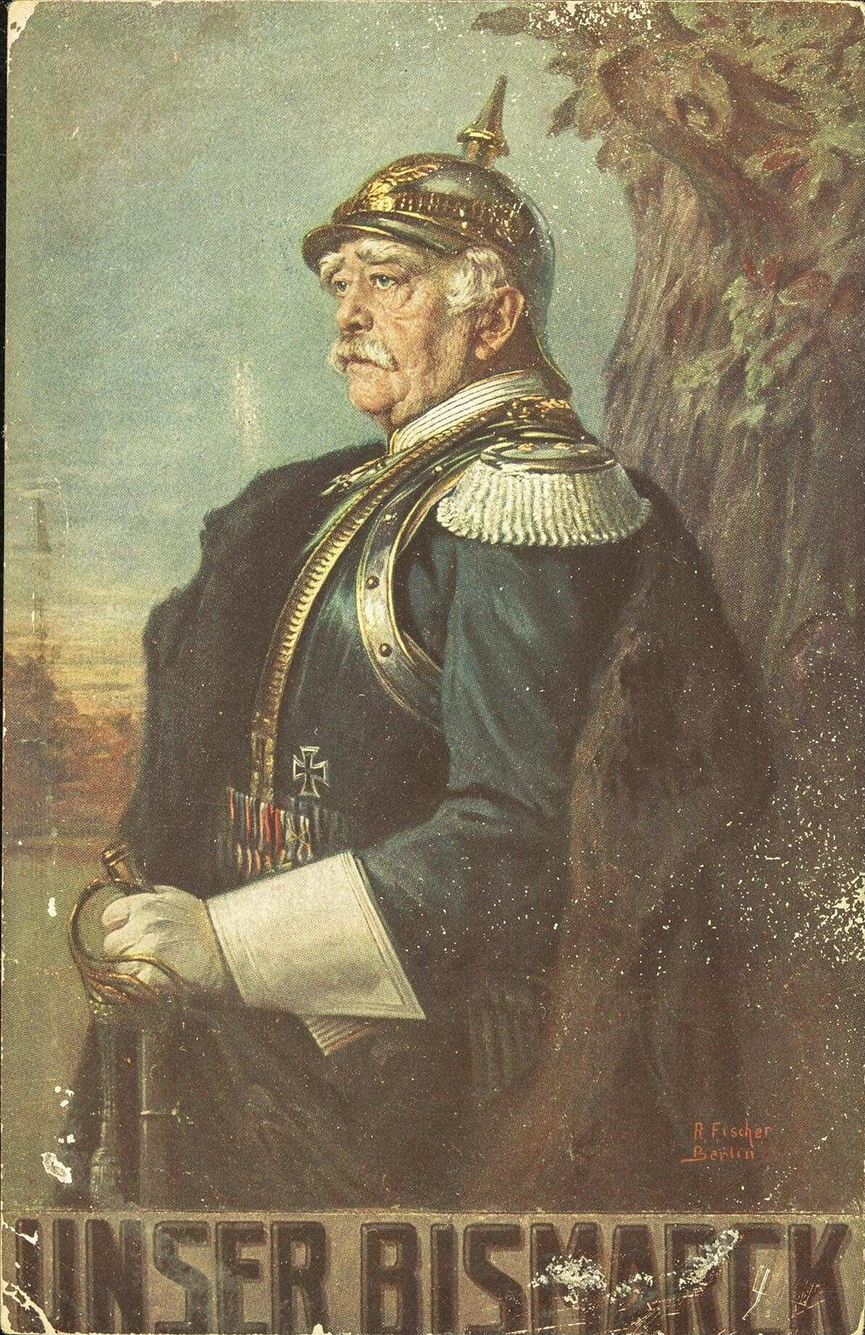
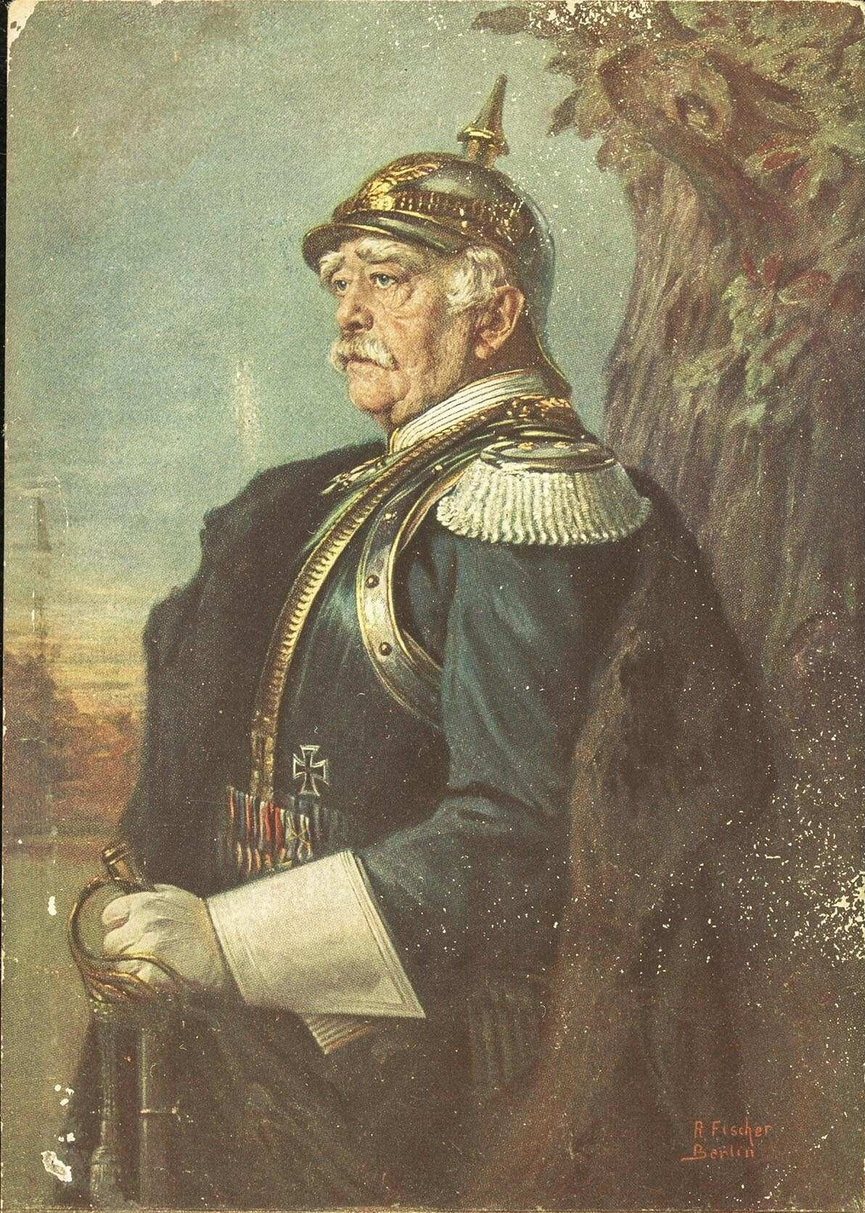
Edited imgae of Bismarck

diff --git a/style.css b/style.css
@@ -153,7 +153,7 @@ a:focus-visible {
 .hero-bild img {
   width: 100%;
   height: auto;
-  aspect-ratio: 1200 / 1800;
+  aspect-ratio: 1200 / 1700;
   border-radius: 0.75rem;
   border: 1px solid var(--line);
 }
@@ -401,7 +401,7 @@ dd {
 }
 
 .quellen {
-  font-size: 0.7rem;
+  font-size: 0.8rem;
   color: var(--muted);
   margin-top: 0.5rem;
   font-style: normal;
